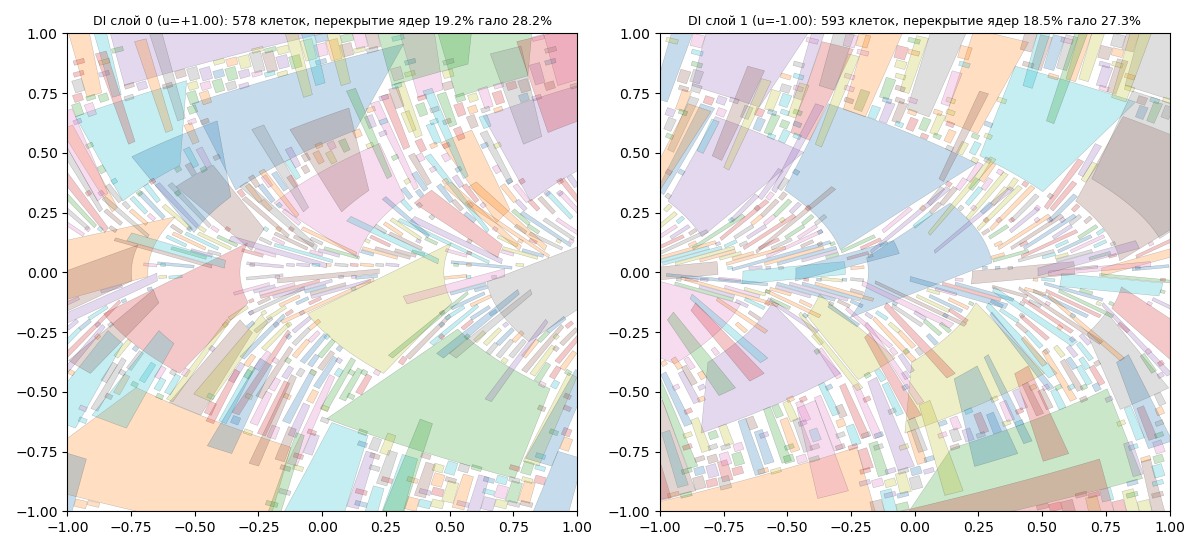
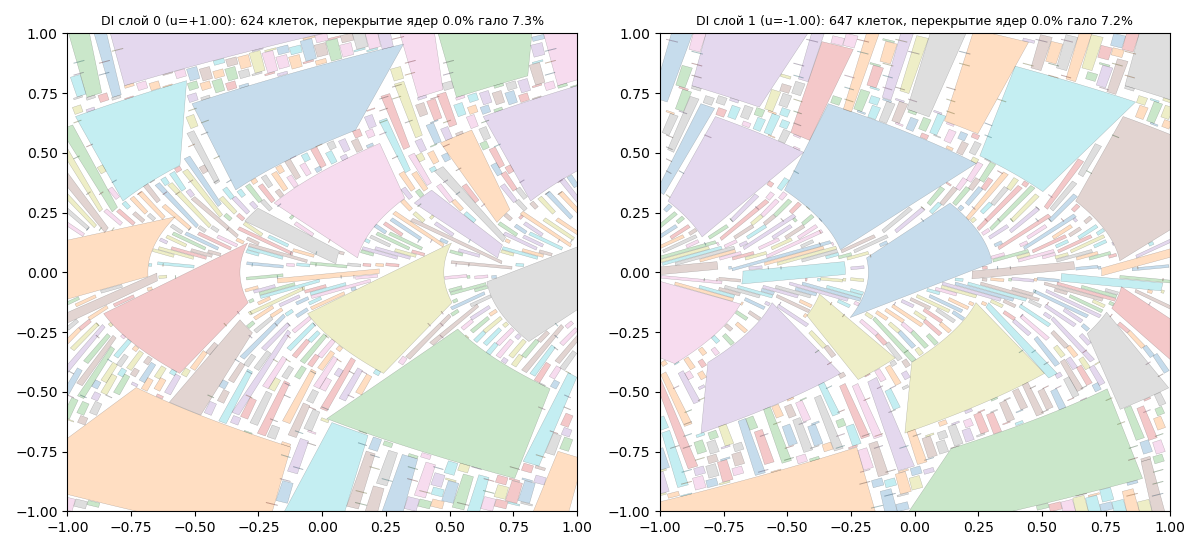
[hub-worker-10]: v7 отчёт покрытия DI/маятник (ядра 0%, гало 7–9%)

diff --git a/spores_2/v7/reports/v7_cells.md b/spores_2/v7/reports/v7_cells.md
@@ -1,0 +1,8 @@
+# v7: покрытие слоя клетками с локальной моделью (hub-worker-10, m=40 проб на сторону)
+| система | слой | клеток | покрыто | перекрытие ядер | перекрытие гало | выход в ядро соседа | сек (aida) |
+|---|---|---|---|---|---|---|---|
+| DI | 1 | 647 | 100% | 0.0% | 7.3% | 21.8% | 64 |
+| маятник u=.3 | 1 | 827 | 100% | 0.1% | 9.3% | 14.6% | 137 |
+Метод: ядро новой клетки укорачивается, пока точки её ядра не попадают в ядра слоя И точки чужих ядер не попадают в неё (симметрично; первая версия проверяла только одну сторону — ядра перекрывались на 19%, гало 28%, 171 с).
+Картинки: `figures/cells_di.png`, `figures/cells_pend.png`. Открыто: выход в ядро соседа 15–22% (цель 100%) — нужен граф V (п.3); порядок покрытия вдоль потока.
+Примечание: `systems.pend` нормирует ω на wmax=4 (g/l=1), поправка «ω/√(g/l)» из п.6 пока не делалась.
